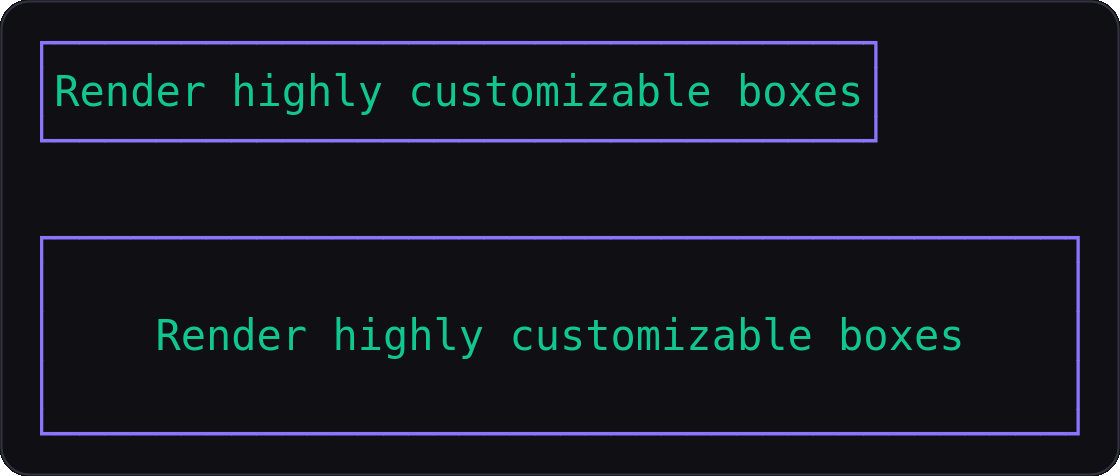
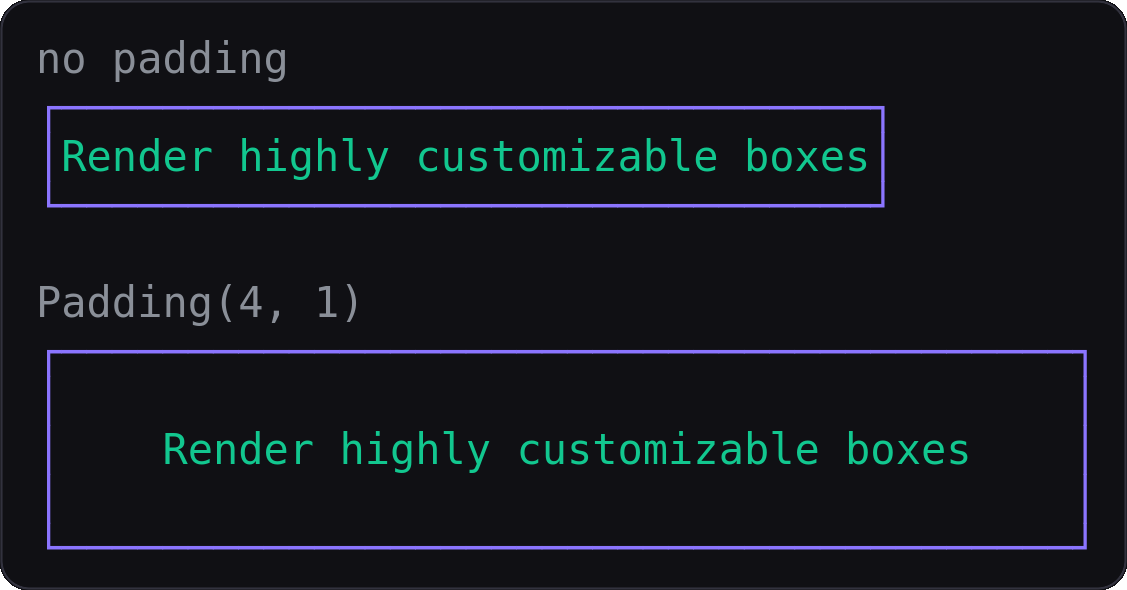
docs(img): label the before/after in contrast screenshots
Each box in the padding, margin, and wrap images now carries a dim
annotation naming the call that produced it, so the comparison reads
without the surrounding prose.

diff --git a/scripts/screenshots/showcase/main.go b/scripts/screenshots/showcase/main.go
@@ -9,12 +9,14 @@ import (
 	"os"
 
 	box "github.com/box-cli-maker/box-cli-maker/v3"
+	"github.com/charmbracelet/x/ansi"
 )
 
 const (
 	violet = "#8B75FF"
 	mint   = "#00FFB2"
 	teal   = "#12C78F"
+	slate  = "#8A8F98"
 
 	tagline = "Render highly customizable boxes\nin the terminal"
 	// Ragged line lengths make content alignment visible.
@@ -31,8 +33,19 @@ func base() *box.Box {
 		ContentAlign(box.Center)
 }
 
+// label renders a dim annotation line naming the call that produced the
+// box below it, so the before/after in a contrast image reads unaided.
+func label(text string) string {
+	c := ansi.XParseColor(slate)
+	if c == nil {
+		return text + "\n"
+	}
+	return ansi.Style{}.ForegroundColor(c).Styled(text) + "\n"
+}
+
 // scene renders the multi-box contrast images: whitespace is invisible in
-// a lone screenshot, so padding and margin are shown against a baseline.
+// a lone screenshot, so padding, margin, and wrapping are shown against a
+// labeled baseline.
 func scene(name string) (string, bool) {
 	plain := func() *box.Box {
 		return box.NewBox().Color(violet).ContentColor(teal)
@@ -40,15 +53,15 @@ func scene(name string) (string, bool) {
 	const line = "Render highly customizable boxes"
 	switch name {
 	case "padding":
-		return plain().MustRender("", line) + "\n" +
-			plain().Padding(4, 1).MustRender("", line), true
+		return label("no padding") + plain().MustRender("", line) + "\n" +
+			label("Padding(4, 1)") + plain().Padding(4, 1).MustRender("", line), true
 	case "margin":
-		return plain().MustRender("", line) +
-			plain().Margin(6, 1).MustRender("", line), true
+		return label("no margin") + plain().MustRender("", line) + "\n" +
+			label("Margin(6, 1)") + plain().Margin(6, 1).MustRender("", line), true
 	case "wrap":
 		long := "Render highly customizable boxes in the terminal with wrapping"
-		return plain().MustRender("", long) + "\n" +
-			plain().WrapLimit(36).MustRender("", long), true
+		return label("no wrapping") + plain().MustRender("", long) + "\n" +
+			label("WrapLimit(36)") + plain().WrapLimit(36).MustRender("", long), true
 	}
 	return "", false
 }
